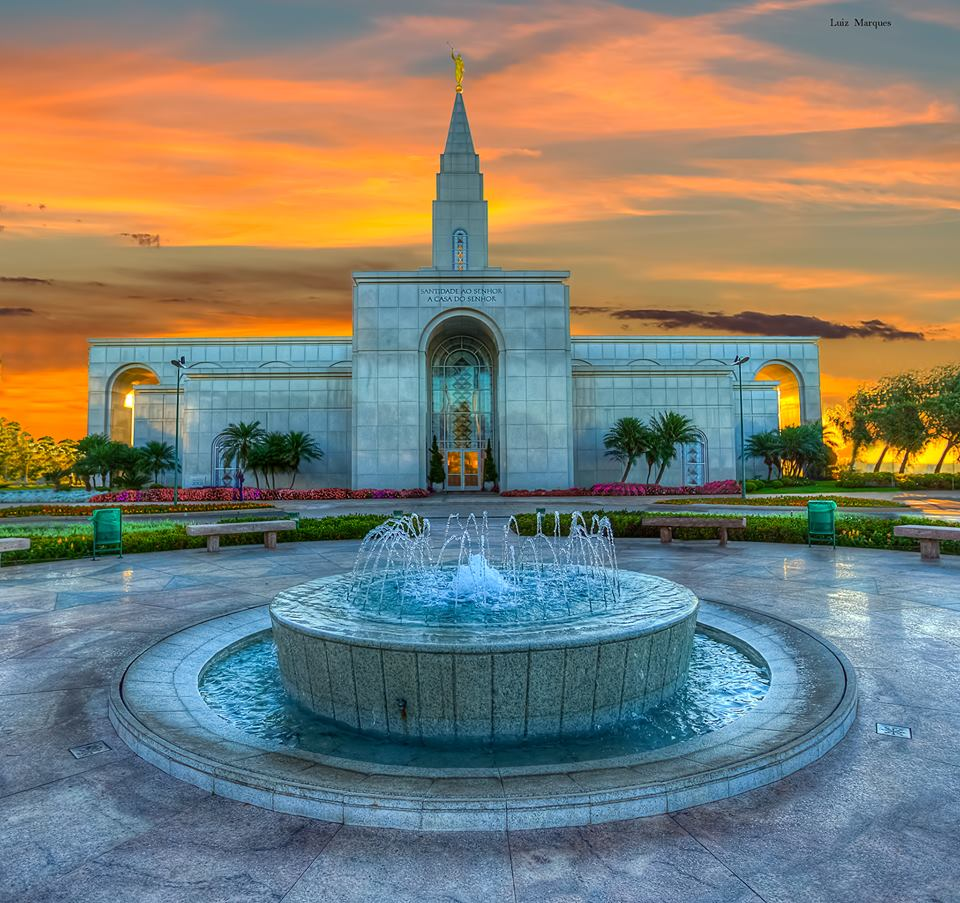
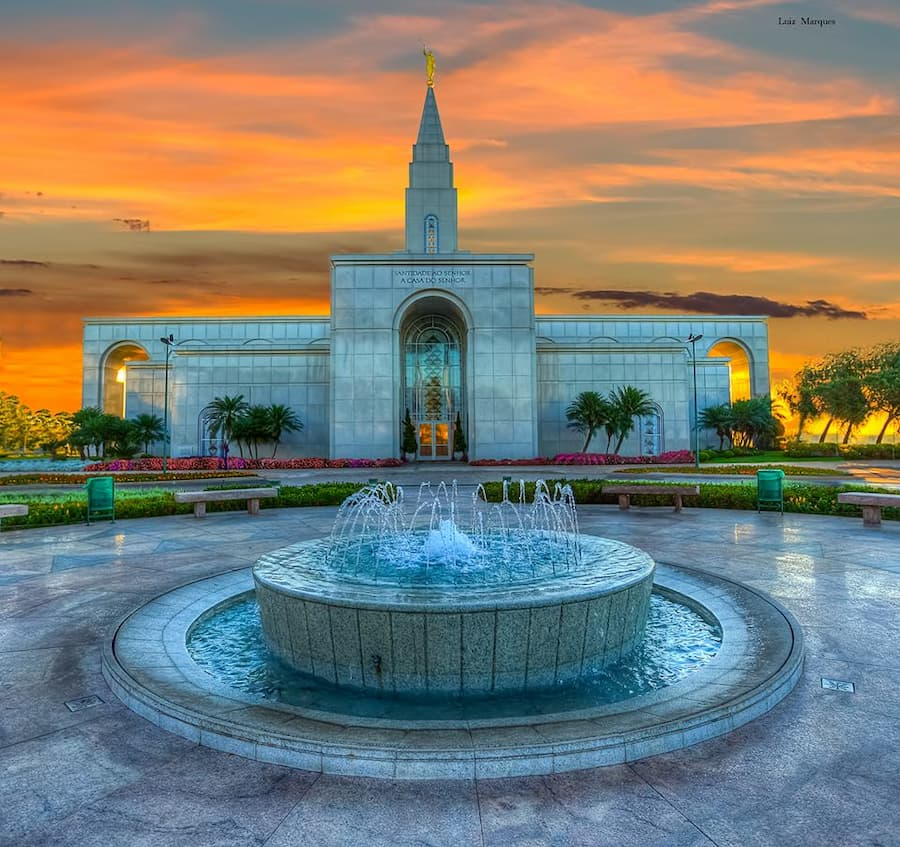
W02 Assignment: Picture Album

Changed region(s): [[0.9644, 0.4604, 0.9956, 0.4911], [0.4044, 0.5832, 0.4356, 0.6139]]

diff --git a/temples.html b/temples.html
@@ -7,7 +7,7 @@
 
     <title>Temple Album</title>
 
-    <meta name="description" content="A responsive picture album of temples.">
+    <meta name="description" content="Beautiful pictures album of temples of the Church of Jesus Christ of Latter-day Saints.">
 
     <link rel="preconnect" href="https://fonts.googleapis.com">
 
@@ -20,6 +20,8 @@
     <link rel="stylesheet" href="styles/temples-large.css">
 
     <script src="scripts/temples.js" defer></script>
+
+    <meta name="author" content="Rafael Oliveira de Lima">
 
 </head>
 <body>
@@ -60,7 +62,7 @@
             </figure>
             <figure>
 
-                <img src="images/images/parisfrancetemple2056main.jpg" alt="Paris France Temple" loading="lazy" width="400" height="250">
+                <img src="images/images/parisfrancetemple2056main (1).jpg" alt="Paris France Temple" loading="lazy" width="400" height="250">
                 <figcaption>Paris France</figcaption>
             </figure>
 
@@ -70,7 +72,7 @@
             </figure>
 
             <figure>
-                <img src="images/images/SaoPauloBrazilTemple1.jpg" alt="Sao Paulo Brazil Temple" loading="lazy" width="400" height="250">
+                <img src="images/images/saopaulotemple1.jpg" alt="Sao Paulo Brazil Temple" loading="lazy" width="400" height="250">
                 <figcaption>Sao Paulo Brazil</figcaption>
             </figure>
             
@@ -80,7 +82,7 @@
             </figure>
 
             <figure>
-                <img src="images/images/TemploFortalezaEXT4WEB.png" alt="Fortaleza Brazil Temple" loading="lazy" width="400" height="250">
+                <img src="images/images/templofortaleza.jpg" alt="Fortaleza Brazil Temple" loading="lazy" width="400" height="250">
                 <figcaption> Fortaleza Brazil</figcaption>
             </figure>
 
